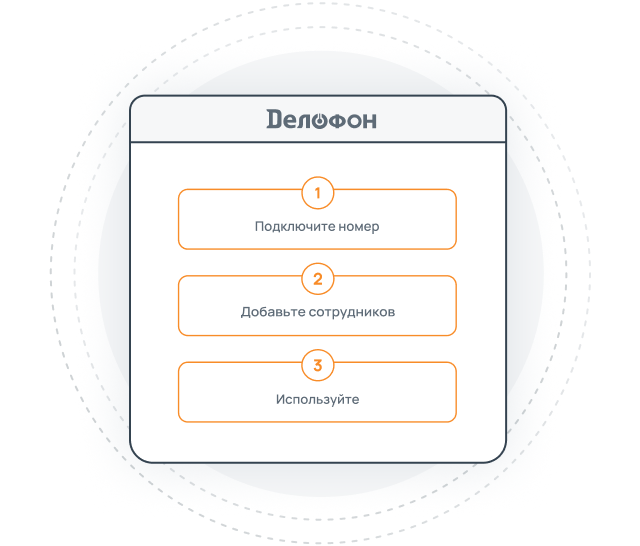
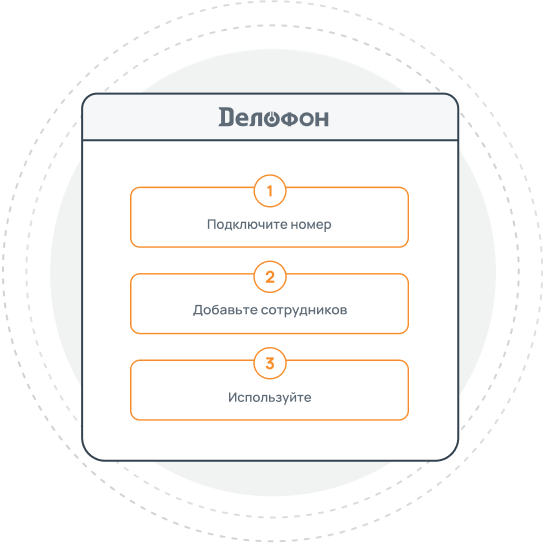
fix bugs:review 22-08-2023, service pages

diff --git a/pages/services/contacts.html b/pages/services/contacts.html
@@ -126,21 +126,30 @@
                 </svg>
                 <ul>
                   <li class="contacts__list-item contacts__city">
-                    <span>Москва:</span
-                    ><span class="contacts__phone-number"
-                      >+7 (495) 286-01-11</span
+                    <span>Москва: </span
+                    ><a
+                      aria-label="Москва"
+                      href="tel:+7 (495) 286-01-11"
+                      class="link contacts__phone-number"
+                      >+7 (495) 286-01-11</a
                     >
                   </li>
                   <li class="contacts__list-item contacts__city">
                     <span>Санкт-Петербург: </span
-                    ><span class="contacts__phone-number"
-                      >+7 (812) 409-05-00</span
+                    ><a
+                      href="tel:+7 (812) 409-05-00"
+                      aria-label="Санкт-Петербург"
+                      class="link contacts__phone-number"
+                      >+7 (812) 409-05-00</a
                     >
                   </li>
                   <li class="contacts__list-item">
-                    <span>Сочи:</span
-                    ><span class="contacts__phone-number"
-                      >+7 (862) 225-75-32</span
+                    <span>Сочи: </span
+                    ><a
+                      aria-label="Сочи"
+                      href="tel:+7 (862) 225-75-32"
+                      class="link contacts__phone-number"
+                      >+7 (862) 225-75-32</a
                     >
                   </li>
                 </ul>

diff --git a/pages/login/login.html b/pages/login/login.html
@@ -4,7 +4,6 @@
     <meta charset="UTF-8" />
     <meta http-equiv="X-UA-Compatible" content="IE=edge" />
     <meta name="viewport" content="width=device-width, initial-scale=1.0" />
-
     <title>Делофон &ndash; Вход</title>
     <link
       rel="apple-touch-icon"
@@ -113,6 +112,8 @@
                   name="phone"
                   minlength="11"
                   maxlength="20"
+                  aria-describedby="login__registration"
+                  aria-invalid="false"
                   placeholder="+7 (___) ___-__-__"
                   class="input input_white login__input login__input-number"
                 />

diff --git a/src/assets/css/sections/common/_startuse.scss b/src/assets/css/sections/common/_startuse.scss
@@ -96,15 +96,21 @@
   &__image_mobile {
     display: block;
     margin: $spacer * 5 0;
-    min-width: 320px;
-    max-width: 320px;
+    min-width: 290px;
+    max-width: 290px;
 
     img {
-      max-width: 320px;
+      max-width: 290px;
     }
 
     @include smartphone {
       display: none;
+      min-width: 320px;
+      max-width: 320px;
+
+      img {
+        max-width: 320px;
+      }
     }
   }
 

diff --git a/src/html/sections/startuse_gray.html b/src/html/sections/startuse_gray.html
@@ -47,7 +47,7 @@
       <div class="startuse__image_mobile">
         <img
           alt="Шаги для использования"
-          src="/stepsuse.mobile.svg"
+          src="/stepuse-mobile.png"
           class="no-select"
         />
       </div>

diff --git a/src/assets/css/pages/login.scss b/src/assets/css/pages/login.scss
@@ -236,6 +236,8 @@
     @include font($normal, 11px, $red);
     opacity: 0;
     transition: opacity 0.3s ease-in;
+    text-align: center;
+    align-self: center;
 
     @include mobile-520 {
       font-size: 12px;
